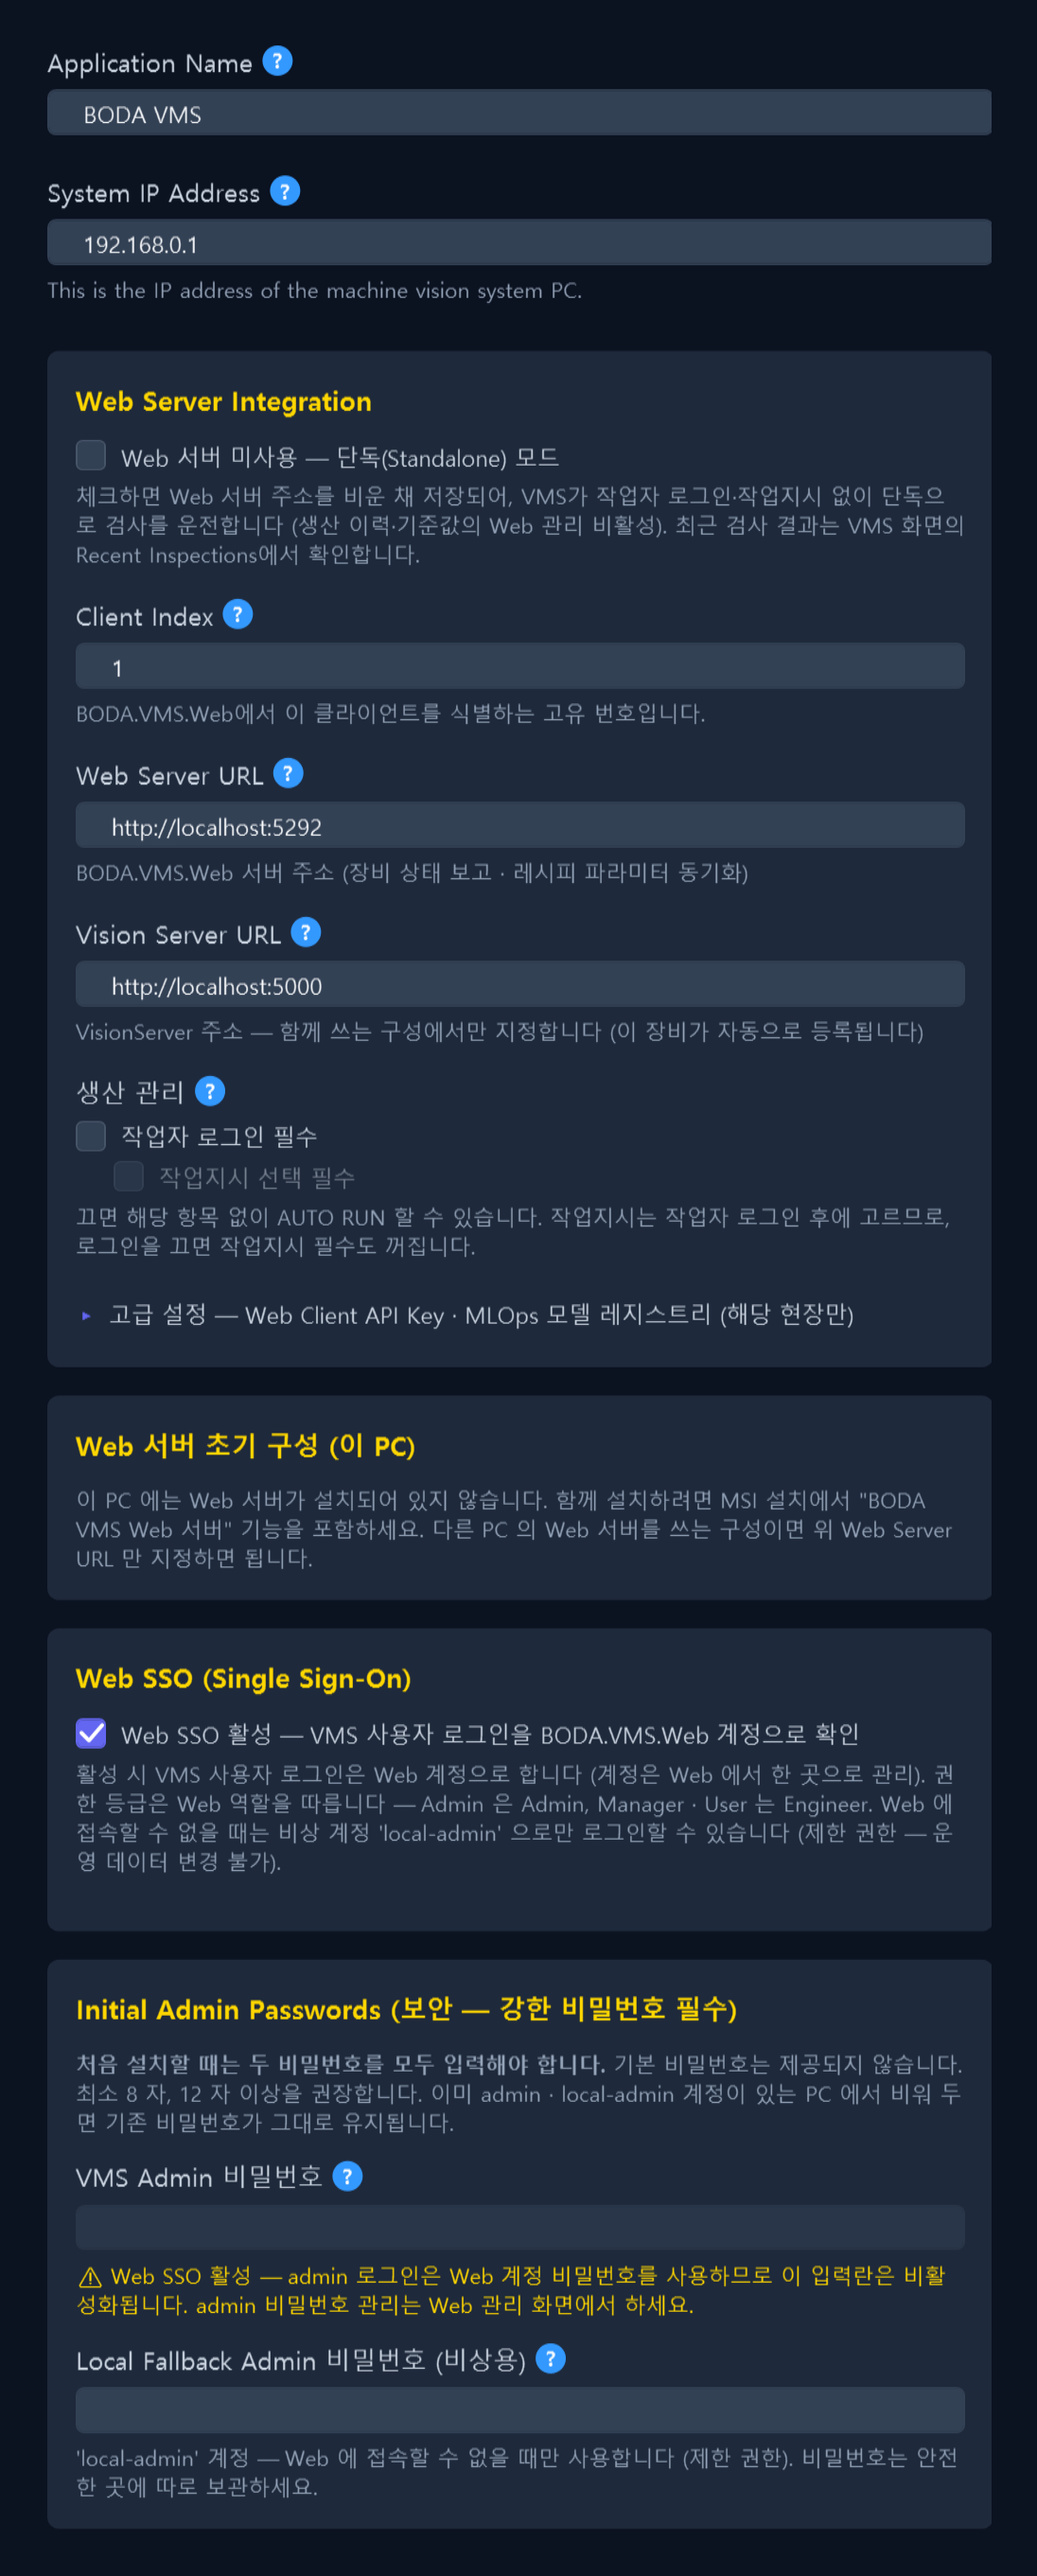
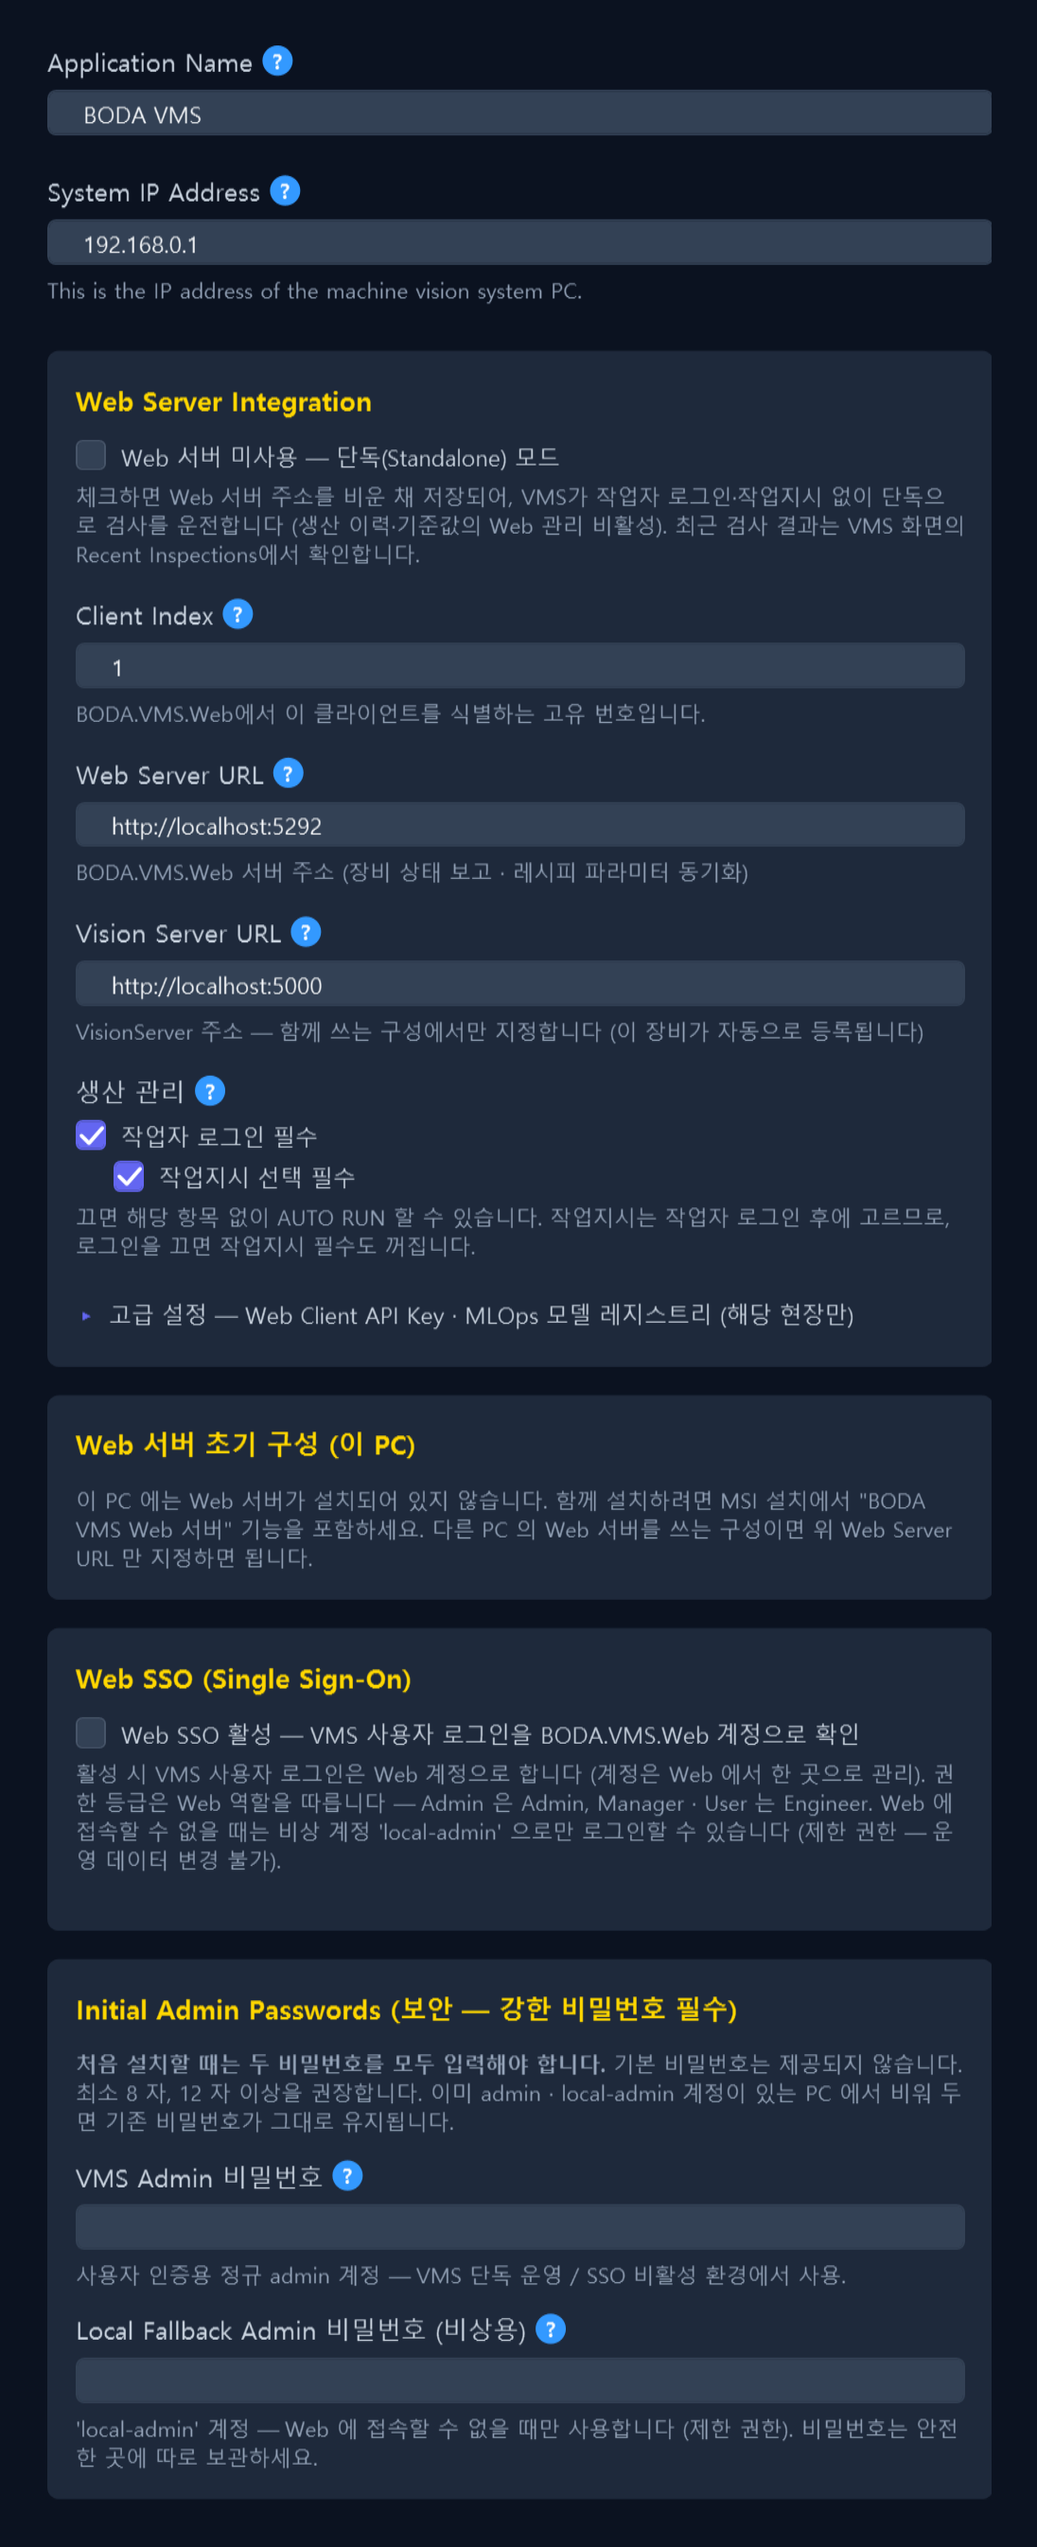
docs(manual): 사내판 그림 7장 재캡처 — build 7 화면 · 확장 옵션 상태
- 검사 운전 조작 상자(◆3D 탭 · [Save 3D] · 권한 안내 줄), AppSetup 2단계 전체,
  Camera Manager(Mech-Mind 포함 3대), 도구 패널 4장(Threshold · Caliper · PointCloud Filter · Anomaly)
- 제출본 그림으로 바꾸지 않고 확장 옵션을 켠 DEBUG 캡처로 다시 찍음(◆PLC Output · ◆레지스트리 단추 유지)
- Inference Settings 는 새 캡처가 지금 그림과 같아 그대로, 검토 메모 0-2 에 기록

diff --git a/docs/manuals/internal/REVIEW_NOTES.md b/docs/manuals/internal/REVIEW_NOTES.md
@@ -1,5 +1,12 @@
 # 사내 매뉴얼 초안 — 검토 메모 (2026-11-11)
 
+## 0-2. 11-24 그림 재캡처 (master 61d74bd DEBUG, 확장 옵션 켬)
+
+- 11-23 반영 때 남긴 "사내판 자체 그림" 7장을 build 7 화면으로 다시 찍음. 제출본 그림으로 바꾸지 않은 이유: 사내판 그림에는 ◆PLC Output · ◆레지스트리 단추 · ◆3D 탭 · ◆Mech-Mind 카메라가 보여야 함(제출본 그림은 기본 구성).
+- 환경: `VMS_LICENSE_OPTIONS=3d-camera,robot,mlops,plc,line-scan`. VMS `--instance mancap --capture-inspect`(1 카메라 설정, GS Measure 레시피 사본, MS02 → MS01 → MS03 → MS04) · AppSetup `--capture-fullpage` · VisionSetup `--capture-dialogs`(3 카메라 설정 — Basler 2 · Mech-Mind 1) · `--capture-toolpanels`.
+- 바꾼 그림: `vms/inspect_camera_box.jpg`(권한 안내 줄 · ◆Depth Map · Point Cloud 탭 · [Save 3D]) · `as/FullPage_P2_ApplicationSettings.png`(생산 관리 두 칸 기본 켬, Web SSO 끔) · `vs/dlg_CameraManager.png`(창 높이 · Enabled 줄 온전 · "Mech-Mind" 표시 이름) · `tools/06_Threshold` · `14_Caliper`(+ `split/14_Caliper_split`) · `21_PointCloud_Filter` · `34_Anomaly`(Web 파라미터 연동 라벨 · 공통 버튼 틀).
+- 그대로 둔 것: `vs/dlg_InferenceSettings.png` — 새 캡처가 지금 그림과 화소까지 같음. `tools/24_PointCloud_Cluster.png` — 새 캡처가 33 px 길지만 이번 목록 밖이라 두었음.
+
 ## 0-1. 11-23 반영 (제출본 v3.2 · BODA VMS v1.48.1 build 7 기준)
 
 - 제출본 v3.2 의 문장 개정(제품 코드 한 문장씩 대조)을 사내판 장 번호 · 확장 옵션 맥락에 맞춰 옮김 — 2 · 3 · 4 · 5 · 7 · 8 · 11 · 12장, 9 · 10장은 확장 별책에 맞춤.
